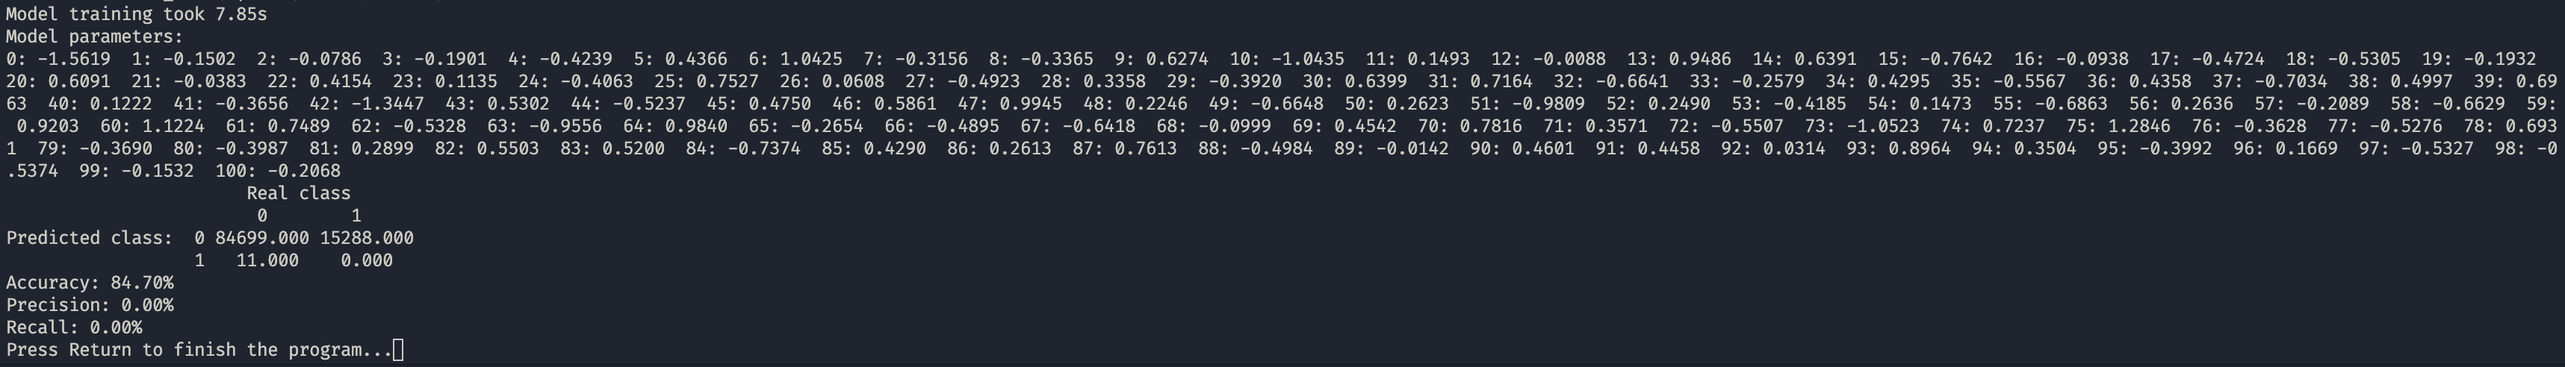
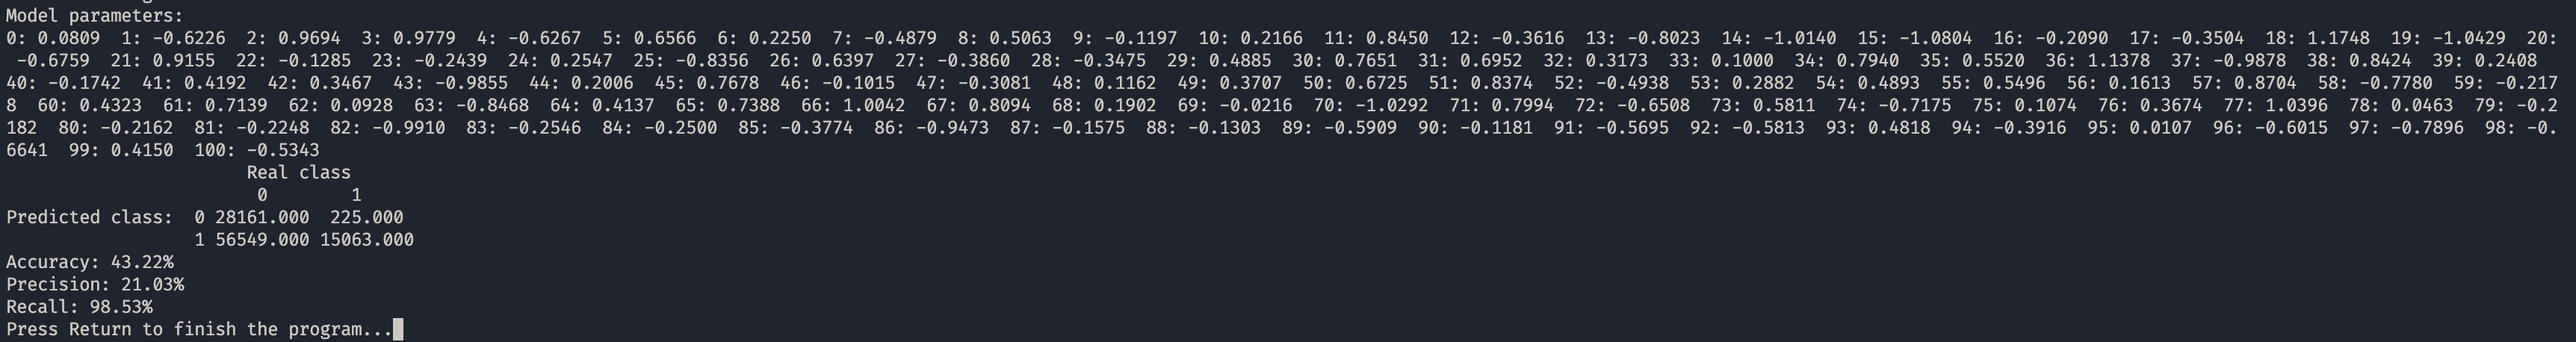
finished preparation for presentation

Changed region(s): [[0.0, 0.0, 0.9971, 0.5502], [0.0, 0.7336, 0.1558, 1.0], [0.0, 0.6114, 0.1558, 0.7336]]

diff --git a/a03/NER/BinaryLogisticRegression.py b/a03/NER/BinaryLogisticRegression.py
@@ -19,7 +19,7 @@ class BinaryLogisticRegression(object):
     #  ------------- Hyperparameters ------------------ #
 
     LEARNING_RATE = 0.01  # The learning rate.
-    CONVERGENCE_MARGIN = 0.005  # The convergence criterion.
+    CONVERGENCE_MARGIN = 0.004  # The convergence criterion.
     # Maximal number of passes through the datapoints in stochastic gradient descent.
     MAX_ITERATIONS = 800
     # Minibatch size (only for minibatch gradient descent)
@@ -62,6 +62,9 @@ class BinaryLogisticRegression(object):
             # The current gradient.
             self.gradient = np.zeros(self.FEATURES)
 
+            self.w_n = np.sum(self.y) / self.DATAPOINTS
+            self.w_p = 1 - self.w_n
+
     # ----------------------------------------------------------------------
 
     def sigmoid(self, z):
@@ -87,17 +90,17 @@ class BinaryLogisticRegression(object):
 
         # YOUR CODE HERE
         self.gradient = np.dot(self.x.T, self.sigmoid(
-            np.dot(self.theta, self.x.T)) - self.y) / self.DATAPOINTS
+            np.dot(self.theta, self.x.T)) * (self.w_p * self.y + self.w_n * (1 - self.y)) - self.w_p * self.y) / self.DATAPOINTS
 
     def compute_gradient_minibatch(self, minibatch):
         """
         Computes the gradient based on a minibatch
         (used for minibatch gradient descent).
         """
-        w_p = 1 - (np.sum(self.y[minibatch]) / self.MINIBATCH_SIZE)
+
         # YOUR CODE HERE
         self.gradient = np.dot(self.x[minibatch].T, self.sigmoid(
-            np.dot(self.theta, self.x[minibatch].T)) - w_p * self.y[minibatch]) / self.MINIBATCH_SIZE
+            np.dot(self.theta, self.x[minibatch].T)) * (self.w_p * self.y[minibatch] + self.w_n * (1 - self.y[minibatch])) - self.w_p * self.y[minibatch]) / self.MINIBATCH_SIZE
 
     def compute_gradient(self, datapoint):
         """
@@ -107,7 +110,7 @@ class BinaryLogisticRegression(object):
 
         # YOUR CODE HERE
         self.gradient = np.dot(self.x[datapoint].T, self.sigmoid(
-            np.dot(self.theta, self.x[datapoint].T)) - self.y[datapoint])
+            np.dot(self.theta, self.x[datapoint].T)) * (self.w_p * self.y[datapoint] + self.w_n * (1 - self.y[datapoint])) - self.w_p * self.y[datapoint])
 
     def stochastic_fit(self):
         """
